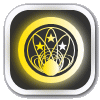
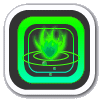
Update Battle Scene ( Inner-Inspiration )

diff --git a/Assets/Script/Class/ActionCommand.cs b/Assets/Script/Class/ActionCommand.cs
@@ -609,6 +609,7 @@ public static class ActionCommand
     if (command_name == Fix.UNINTENTIONAL_HIT) { return Attribute.Skill; }
     if (command_name == Fix.HARDEST_PARRY) { return Attribute.Skill; }
     if (command_name == Fix.EVERFLOW_MIND) { return Attribute.Skill; }
+    if (command_name == Fix.INNER_INSPIRATION) { return Attribute.Skill; }
 
     #endregion
 
@@ -745,6 +746,7 @@ public static class ActionCommand
     if (command_name == Fix.UNINTENTIONAL_HIT) { return TimingType.Instant; }
     if (command_name == Fix.HARDEST_PARRY) { return TimingType.StackCommand; }
     if (command_name == Fix.EVERFLOW_MIND) { return TimingType.Normal; }
+    if (command_name == Fix.INNER_INSPIRATION) { return TimingType.Instant; }
     #endregion
 
     #region "Archetype"
@@ -880,6 +882,7 @@ public static class ActionCommand
     if (command_name == Fix.UNINTENTIONAL_HIT) { return TargetType.Enemy; }
     if (command_name == Fix.HARDEST_PARRY) { return TargetType.InstantTarget; }
     if (command_name == Fix.EVERFLOW_MIND) { return TargetType.Ally; }
+    if (command_name == Fix.INNER_INSPIRATION) { return TargetType.Ally; }
     #endregion
 
     #region "Archetype"
@@ -1090,6 +1093,7 @@ public static class ActionCommand
     if (command_name == Fix.UNINTENTIONAL_HIT) { return 59; }
     if (command_name == Fix.HARDEST_PARRY) { return 65; }
     if (command_name == Fix.EVERFLOW_MIND) { return 80; }
+    if (command_name == Fix.INNER_INSPIRATION) { return 0; }
     #endregion
 
     #region "Archetype"
@@ -1300,6 +1304,7 @@ public static class ActionCommand
     if (command_name == Fix.UNINTENTIONAL_HIT) { return BuffType.Negative; }
     if (command_name == Fix.HARDEST_PARRY) { return BuffType.None; }
     if (command_name == Fix.EVERFLOW_MIND) { return BuffType.Positive; }
+    if (command_name == Fix.INNER_INSPIRATION) { return BuffType.None; }
     #endregion
 
     #region "Archetype"
@@ -1521,6 +1526,7 @@ public static class ActionCommand
     if (command_name == Fix.UNINTENTIONAL_HIT) { return true; }
     if (command_name == Fix.HARDEST_PARRY) { return false; }
     if (command_name == Fix.EVERFLOW_MIND) { return false; }
+    if (command_name == Fix.INNER_INSPIRATION) { return false; }
     #endregion
 
     #region "Archetype"
@@ -1652,6 +1658,7 @@ public static class ActionCommand
     if (command_name == Fix.UNINTENTIONAL_HIT) { return Fix.UNINTENTIONAL_HIT_JP; }
     if (command_name == Fix.HARDEST_PARRY) { return Fix.HARDEST_PARRY_JP; }
     if (command_name == Fix.EVERFLOW_MIND) { return Fix.EVERFLOW_MIND_JP; }
+    if (command_name == Fix.INNER_INSPIRATION) { return Fix.INNER_INSPIRATION_JP; }
     #endregion
 
     #region "Archetype"
@@ -1776,6 +1783,7 @@ public static class ActionCommand
     if (command_name == Fix.UNINTENTIONAL_HIT) { return "敵一体に対して【物理】ダメージを与える。対象に【麻痺】のBUFFを付与する。また、自分の行動ゲージを20%進め、敵一体の行動ゲージを20%戻す。（行動ゲージが100%に達した場合は、行動ゲージは100%とする。行動ゲージが0%を下回る場合は行動ゲージは0%とする。）"; }
     if (command_name == Fix.HARDEST_PARRY) { return "インスタント限定。インスタント行動が行われた際、その行動属性が【スキル】であり、BUFF付与を行うものである場合、そのインスタント行動を打ち消す。この行動は即座に発揮され、打ち消されない。"; }
     if (command_name == Fix.EVERFLOW_MIND) { return "味方一体に対して【常在】のBUFFを付与する。【常在】が続く間、インスタント行動を行った後、インスタントゲージが全て消費されず、20%残った状態となる"; }
+    if (command_name == Fix.INNER_INSPIRATION) { return "味方一体を対象とする。SPを10%回復する。"; }
     #endregion
 
     #region "Archetype"
@@ -1814,7 +1822,6 @@ public static class ActionCommand
     if (command_name == Fix.OATH_OF_AEGIS) { return ""; }
     if (command_name == Fix.ABYSS_EYE) { return ""; }
     if (command_name == Fix.MIND_FORCE) { return ""; }
-    if (command_name == Fix.INNER_INSPIRATION) { return ""; }
 
     if (command_name == Fix.CIRCLE_OF_THE_IGNITE) { return ""; }
     if (command_name == Fix.WATER_PRESENCE) { return ""; }

diff --git a/Assets/Script/View/BattleEnemy.cs b/Assets/Script/View/BattleEnemy.cs
@@ -1853,6 +1853,10 @@ public partial class BattleEnemy : MotherBase
         ExecEverflowMind(player, target);
         break;
 
+      case Fix.INNER_INSPIRATION:
+        ExecInnerInspiration(player, target);
+        break;
+
       #endregion
 
       #region "Other"
@@ -4399,6 +4403,12 @@ public partial class BattleEnemy : MotherBase
     Debug.Log(MethodBase.GetCurrentMethod());
     target.objBuffPanel.AddBuff(prefab_Buff, Fix.EVERFLOW_MIND, SecondaryLogic.EverflowMind_Turn(player), SecondaryLogic.EverflowMind_Effect1(player), 0, 0);
     StartAnimation(target.objGroup.gameObject, Fix.EVERFLOW_MIND, Fix.COLOR_NORMAL);
+  }
+
+  private void ExecInnerInspiration(Character player, Character target)
+  {
+    double effectValue = SecondaryLogic.InnerInspiration_Effect1(target) * target.MaxSoulPoint;
+    AbstractGainSoulPoint(player, target, effectValue);
   }
 
   private void ExecStanceOfTheBlade(Character player)

diff --git a/Assets/Script/Class/Character.cs b/Assets/Script/Class/Character.cs
@@ -2709,6 +2709,7 @@ public partial class Character : MonoBehaviour
     if (this.UnintentionalHit > 0) { list.Add(Fix.UNINTENTIONAL_HIT); }
     if (this.HardestParry > 0) { list.Add(Fix.HARDEST_PARRY); }
     if (this.EverflowMind > 0) { list.Add(Fix.EVERFLOW_MIND); }
+    if (this.InnerInspiration > 0) { list.Add(Fix.INNER_INSPIRATION); }
 
     if (this.CounterAttack > 0) { list.Add(Fix.COUNTER_ATTACK); }
 

diff --git a/Assets/Script/Class/SecondaryLogic.cs b/Assets/Script/Class/SecondaryLogic.cs
@@ -772,4 +772,9 @@ public static class SecondaryLogic
   {
     return 0.20f;
   }
+
+  public static double InnerInspiration_Effect1(Character player)
+  {
+    return 0.10f;
+  }
 }
